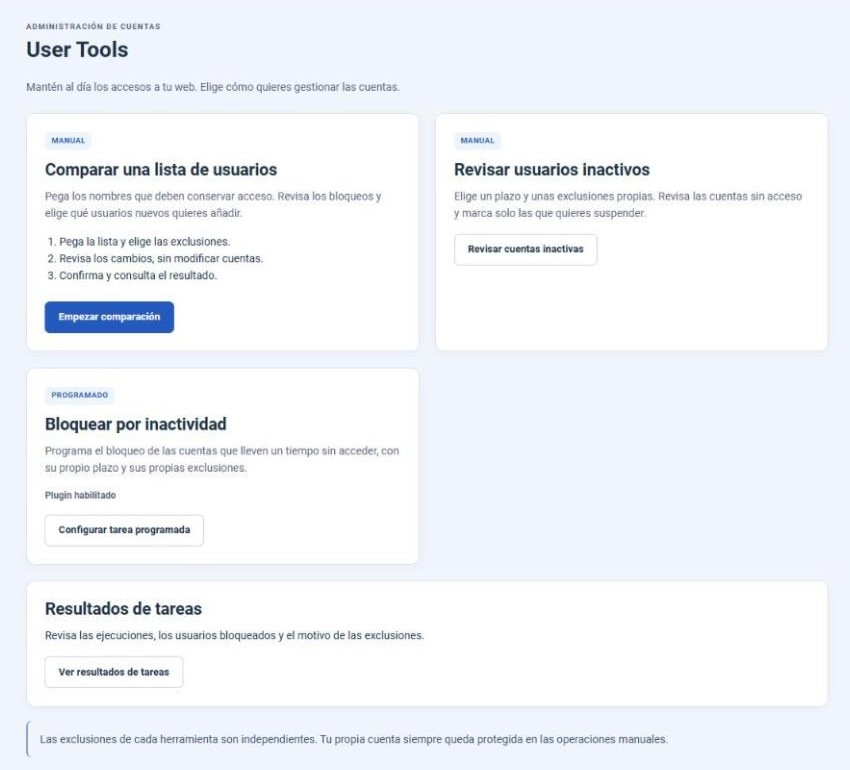
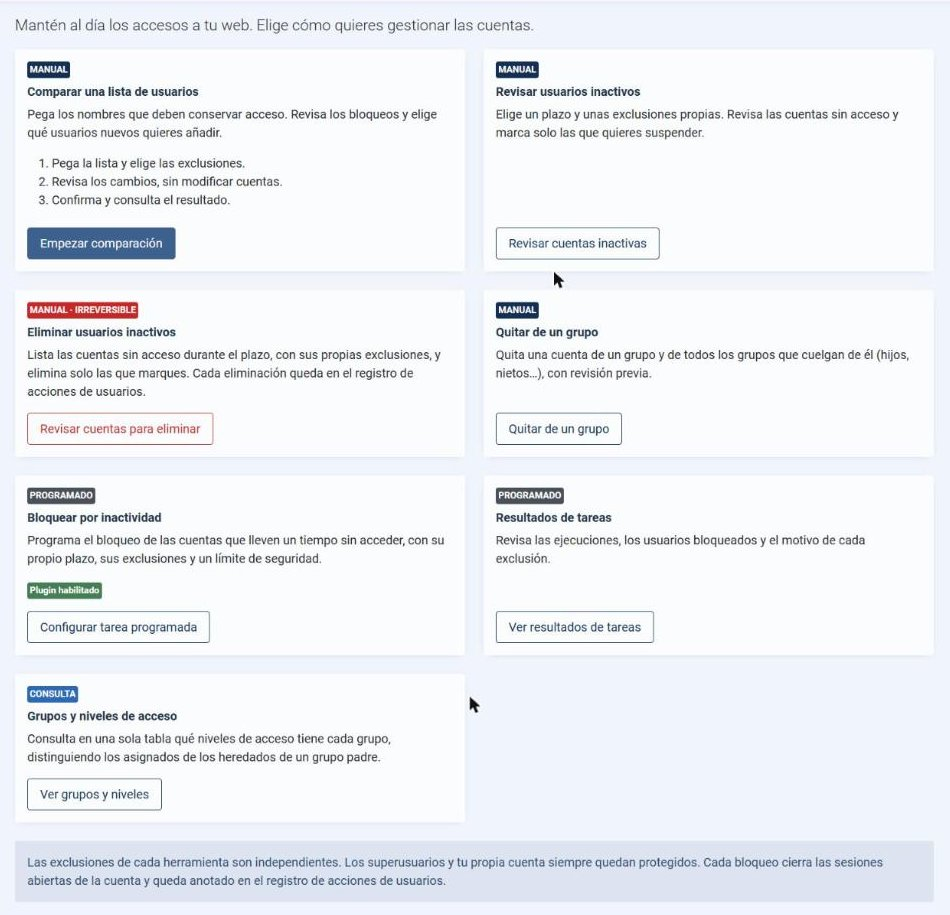
Add Remove from a group screenshots and refresh the home screen
Taken on the test Joomla 6.2.0 with the 2026.10.8 build: home screen
(with the new cards), account and group, and review. Both galleries and
READMEs updated. Addresses the Codex review on PR #10.

Claude-Session: https://claude.ai/code/session_01WVx7CxBpcuGzXeHpUpPAj1

diff --git a/docs/capturas.md b/docs/capturas.md
@@ -4,9 +4,9 @@
 
 [Volver al README](../README.md)
 
-Estas capturas compartidas muestran la interfaz en español en Joomla 6.2.0. Las de eliminación se incorporaron con 2026.10.5 la del panel de Usuarios con 2026.10.6 y la de grupos y niveles de acceso con 2026.10.8; las demás corresponden a una interfaz anterior y pueden diferir de la actual. Para las opciones y el comportamiento vigentes, consulta el [README](../README.md) y las [preguntas frecuentes](../FAQ.md).
+Estas capturas compartidas muestran la interfaz en español en Joomla 6.2.0. Las de eliminación se incorporaron con 2026.10.5 la del panel de Usuarios con 2026.10.6 y la portada, la de grupos y niveles de acceso y las de quitar de un grupo con 2026.10.8; las demás corresponden a una interfaz anterior y pueden diferir de la actual. Para las opciones y el comportamiento vigentes, consulta el [README](../README.md) y las [preguntas frecuentes](../FAQ.md).
 
-![Portada de User Tools](screenshots/01-portada.jpg)
+![Portada de User Tools (2026.10.8)](screenshots/01-portada.jpg)
 
 ![Comparación: lista y exclusiones](screenshots/02-comparacion-lista.jpg)
 
@@ -23,6 +23,10 @@ Estas capturas compartidas muestran la interfaz en español en Joomla 6.2.0. Las
 ![Eliminar inactivos: plazo, cuentas listadas y exclusiones](screenshots/11-eliminar-plazo.jpg)
 
 ![Eliminar inactivos: selección de cuentas y confirmación](screenshots/12-eliminar-seleccion.jpg)
+
+![Quitar de un grupo: cuenta y grupo (2026.10.8)](screenshots/15-quitar-grupo-cuenta.jpg)
+
+![Quitar de un grupo: revisión de los grupos que se quitan y se mantienen (2026.10.8)](screenshots/16-quitar-grupo-revision.jpg)
 
 ![Configuración de una tarea programada](screenshots/08-tarea-programada.jpg)
 

diff --git a/docs/screenshots.en.md b/docs/screenshots.en.md
@@ -4,9 +4,9 @@
 
 [Back to the README](../README.en.md)
 
-These shared screenshots show the Spanish interface on Joomla 6.2.0. Deletion screenshots were added in 2026.10.5, the Users dashboard screenshot in 2026.10.6, and the groups and access levels screenshot in 2026.10.8. The other screenshots show an older interface and may differ from the current one. For current options and behaviour, see the [README](../README.en.md) and [FAQ](../FAQ.en.md).
+These shared screenshots show the Spanish interface on Joomla 6.2.0. Deletion screenshots were added in 2026.10.5, the Users dashboard screenshot in 2026.10.6, and the home screen, groups and access levels, and remove from a group screenshots in 2026.10.8. The other screenshots show an older interface and may differ from the current one. For current options and behaviour, see the [README](../README.en.md) and [FAQ](../FAQ.en.md).
 
-![User Tools home screen](screenshots/01-portada.jpg)
+![User Tools home screen (2026.10.8)](screenshots/01-portada.jpg)
 
 ![Comparison: list and exclusions](screenshots/02-comparacion-lista.jpg)
 
@@ -23,6 +23,10 @@ These shared screenshots show the Spanish interface on Joomla 6.2.0. Deletion sc
 ![Delete inactive users: period, status and exclusions](screenshots/11-eliminar-plazo.jpg)
 
 ![Delete inactive users: selection and confirmation](screenshots/12-eliminar-seleccion.jpg)
+
+![Remove from a group: account and group (2026.10.8)](screenshots/15-quitar-grupo-cuenta.jpg)
+
+![Remove from a group: review of the groups removed and kept (2026.10.8)](screenshots/16-quitar-grupo-revision.jpg)
 
 ![Scheduled-task configuration](screenshots/08-tarea-programada.jpg)
 

diff --git a/README.en.md b/README.en.md
@@ -165,6 +165,8 @@ Since 2026.10.8, **Remove from a group** takes an account out of a group and eve
 2. **Review**: each current group of the account is shown as “Removed” or “Kept”. Nothing changes until you confirm. The review is single-use and expires after 15 minutes.
 3. **Result**: the groups the account keeps, with links to its user record and the action log.
 
+![Remove from a group: review (Spanish interface)](docs/screenshots/16-quitar-grupo-revision.jpg)
+
 Rules:
 
 - **If the account is left without groups**, it is assigned the group for new users from the Users Options (usually “Registered”). If that group is one of those being removed, nothing changes and the reason is shown.

diff --git a/README.md b/README.md
@@ -163,6 +163,8 @@ Desde la 2026.10.8, **Quitar de un grupo** saca una cuenta de un grupo y de todo
 2. **Revisar**: se ve cada grupo actual de la cuenta con «Se quita» o «Se mantiene». No se cambia nada hasta confirmar. La revisión es de un solo uso y caduca a los 15 minutos.
 3. **Resultado**: los grupos que conserva la cuenta y un enlace a su ficha y al registro de acciones.
 
+![Quitar de un grupo: revisión](docs/screenshots/16-quitar-grupo-revision.jpg)
+
 Reglas:
 
 - **Si la cuenta se queda sin grupos**, se le asigna el grupo de los usuarios nuevos de las Opciones de Usuarios (normalmente «Registrado»). Si ese grupo es uno de los que se quitan, no se cambia nada y se explica por qué.
